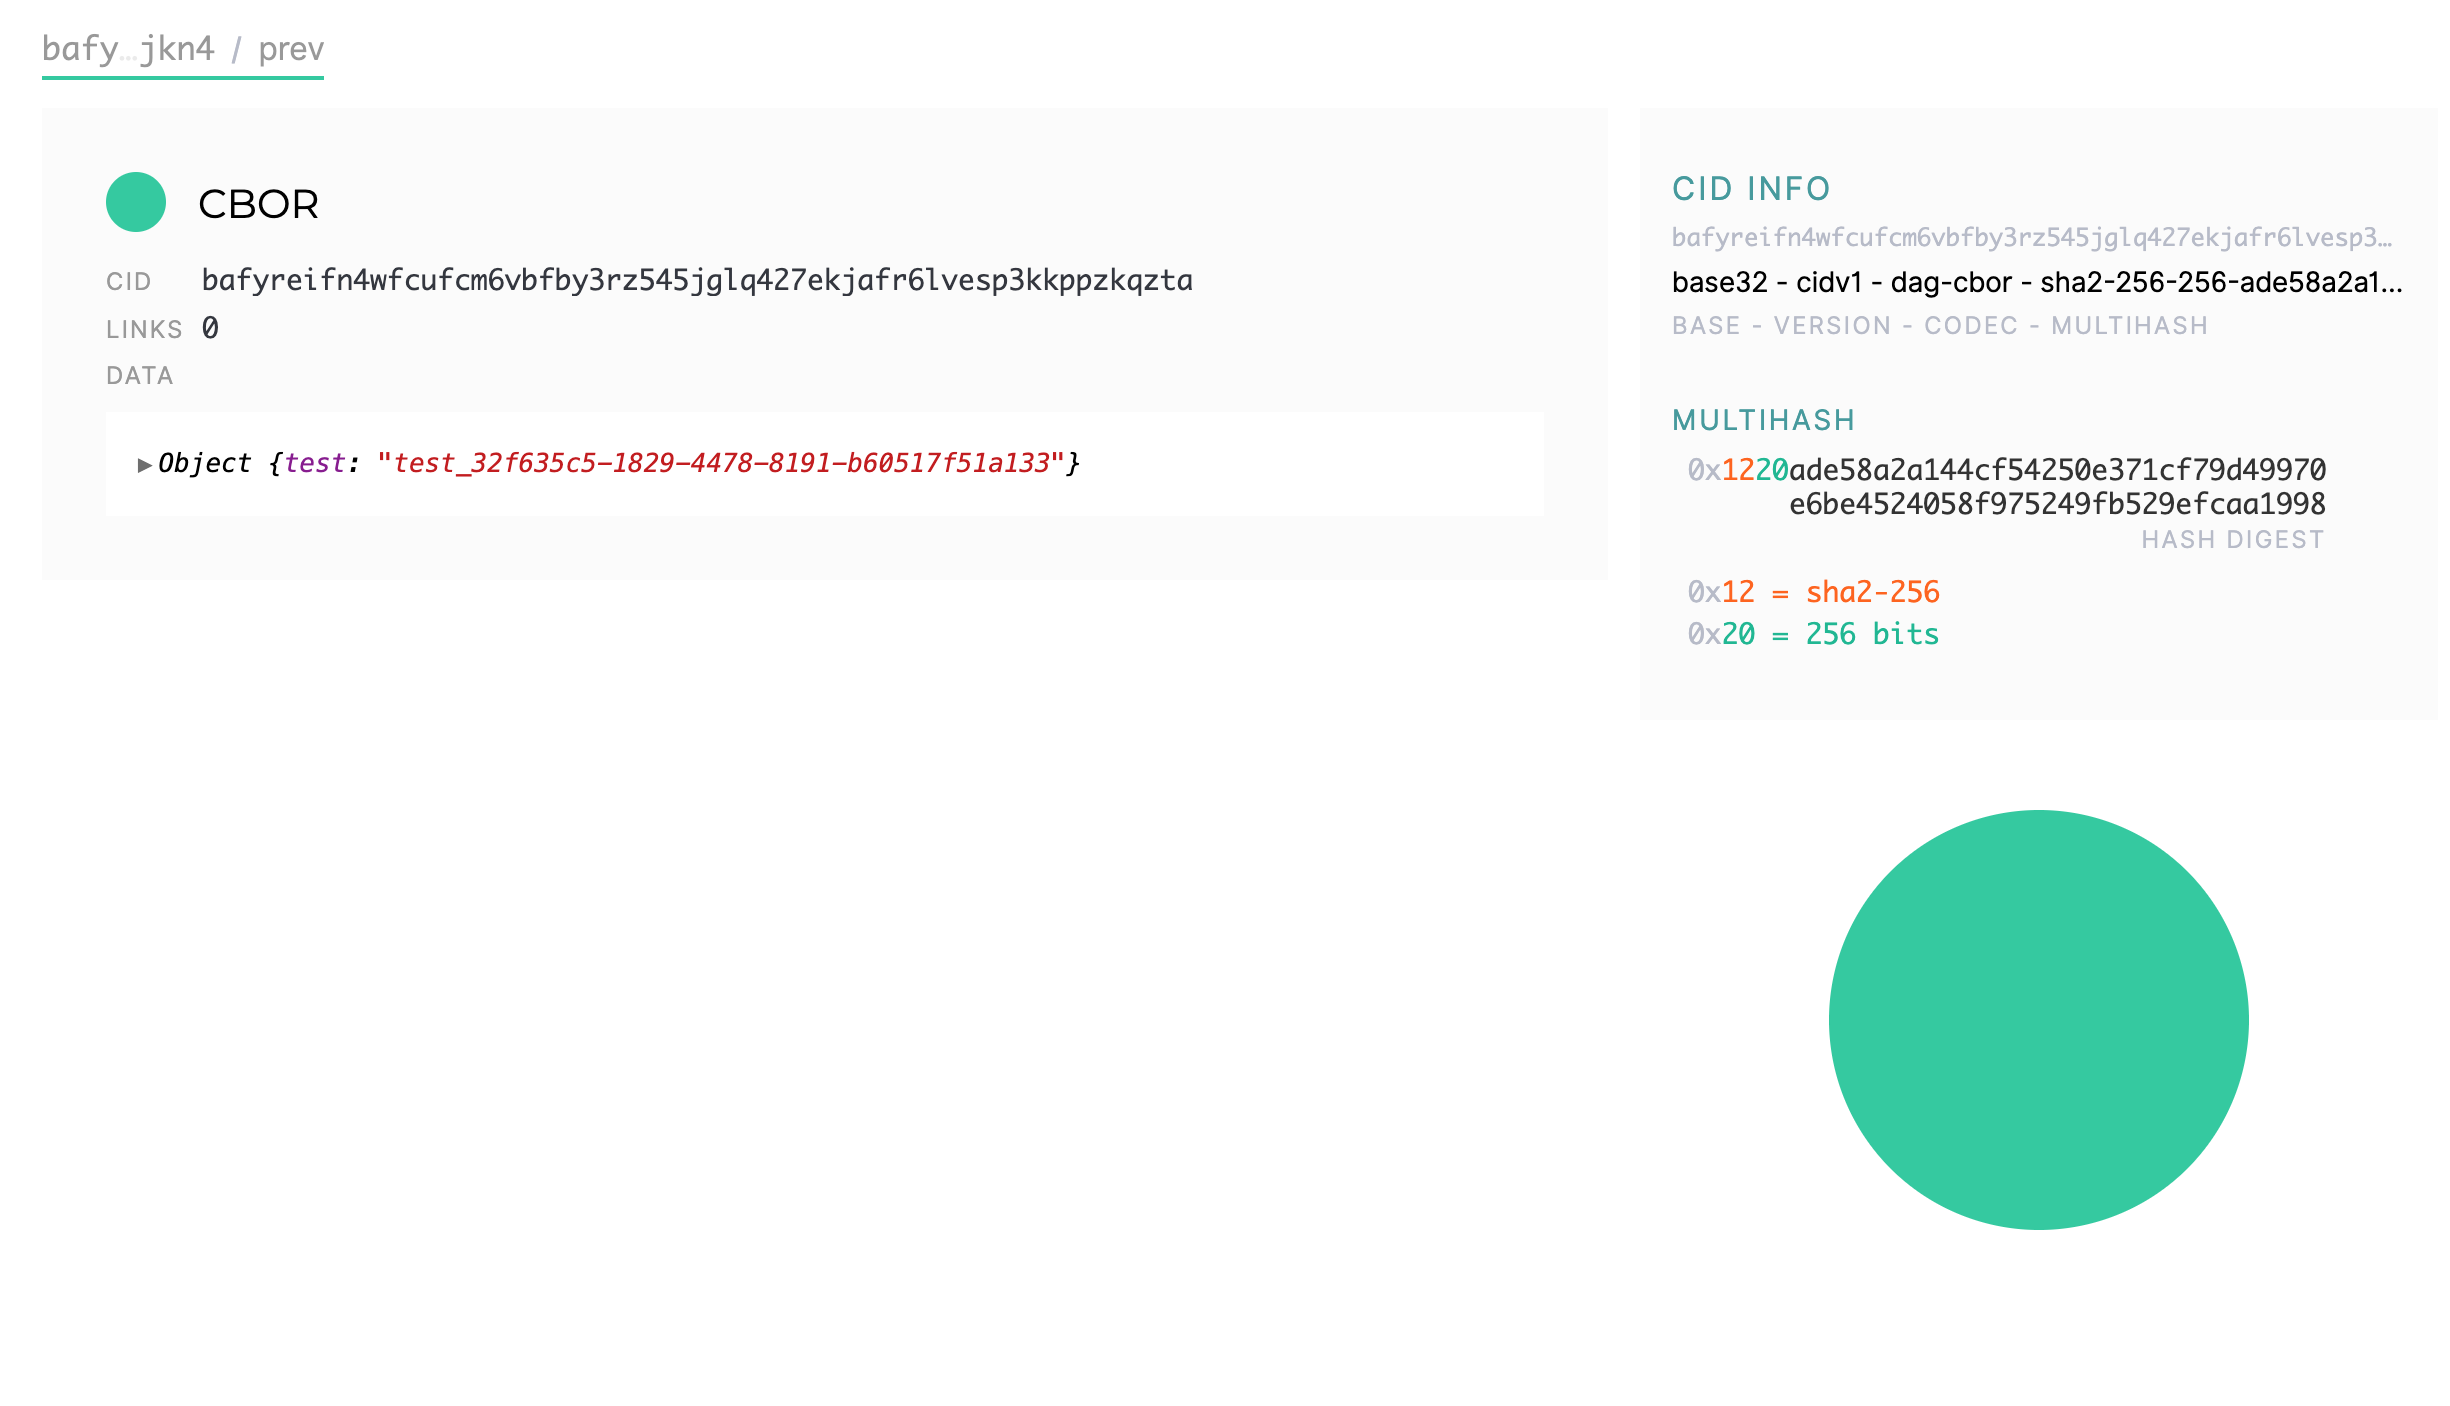
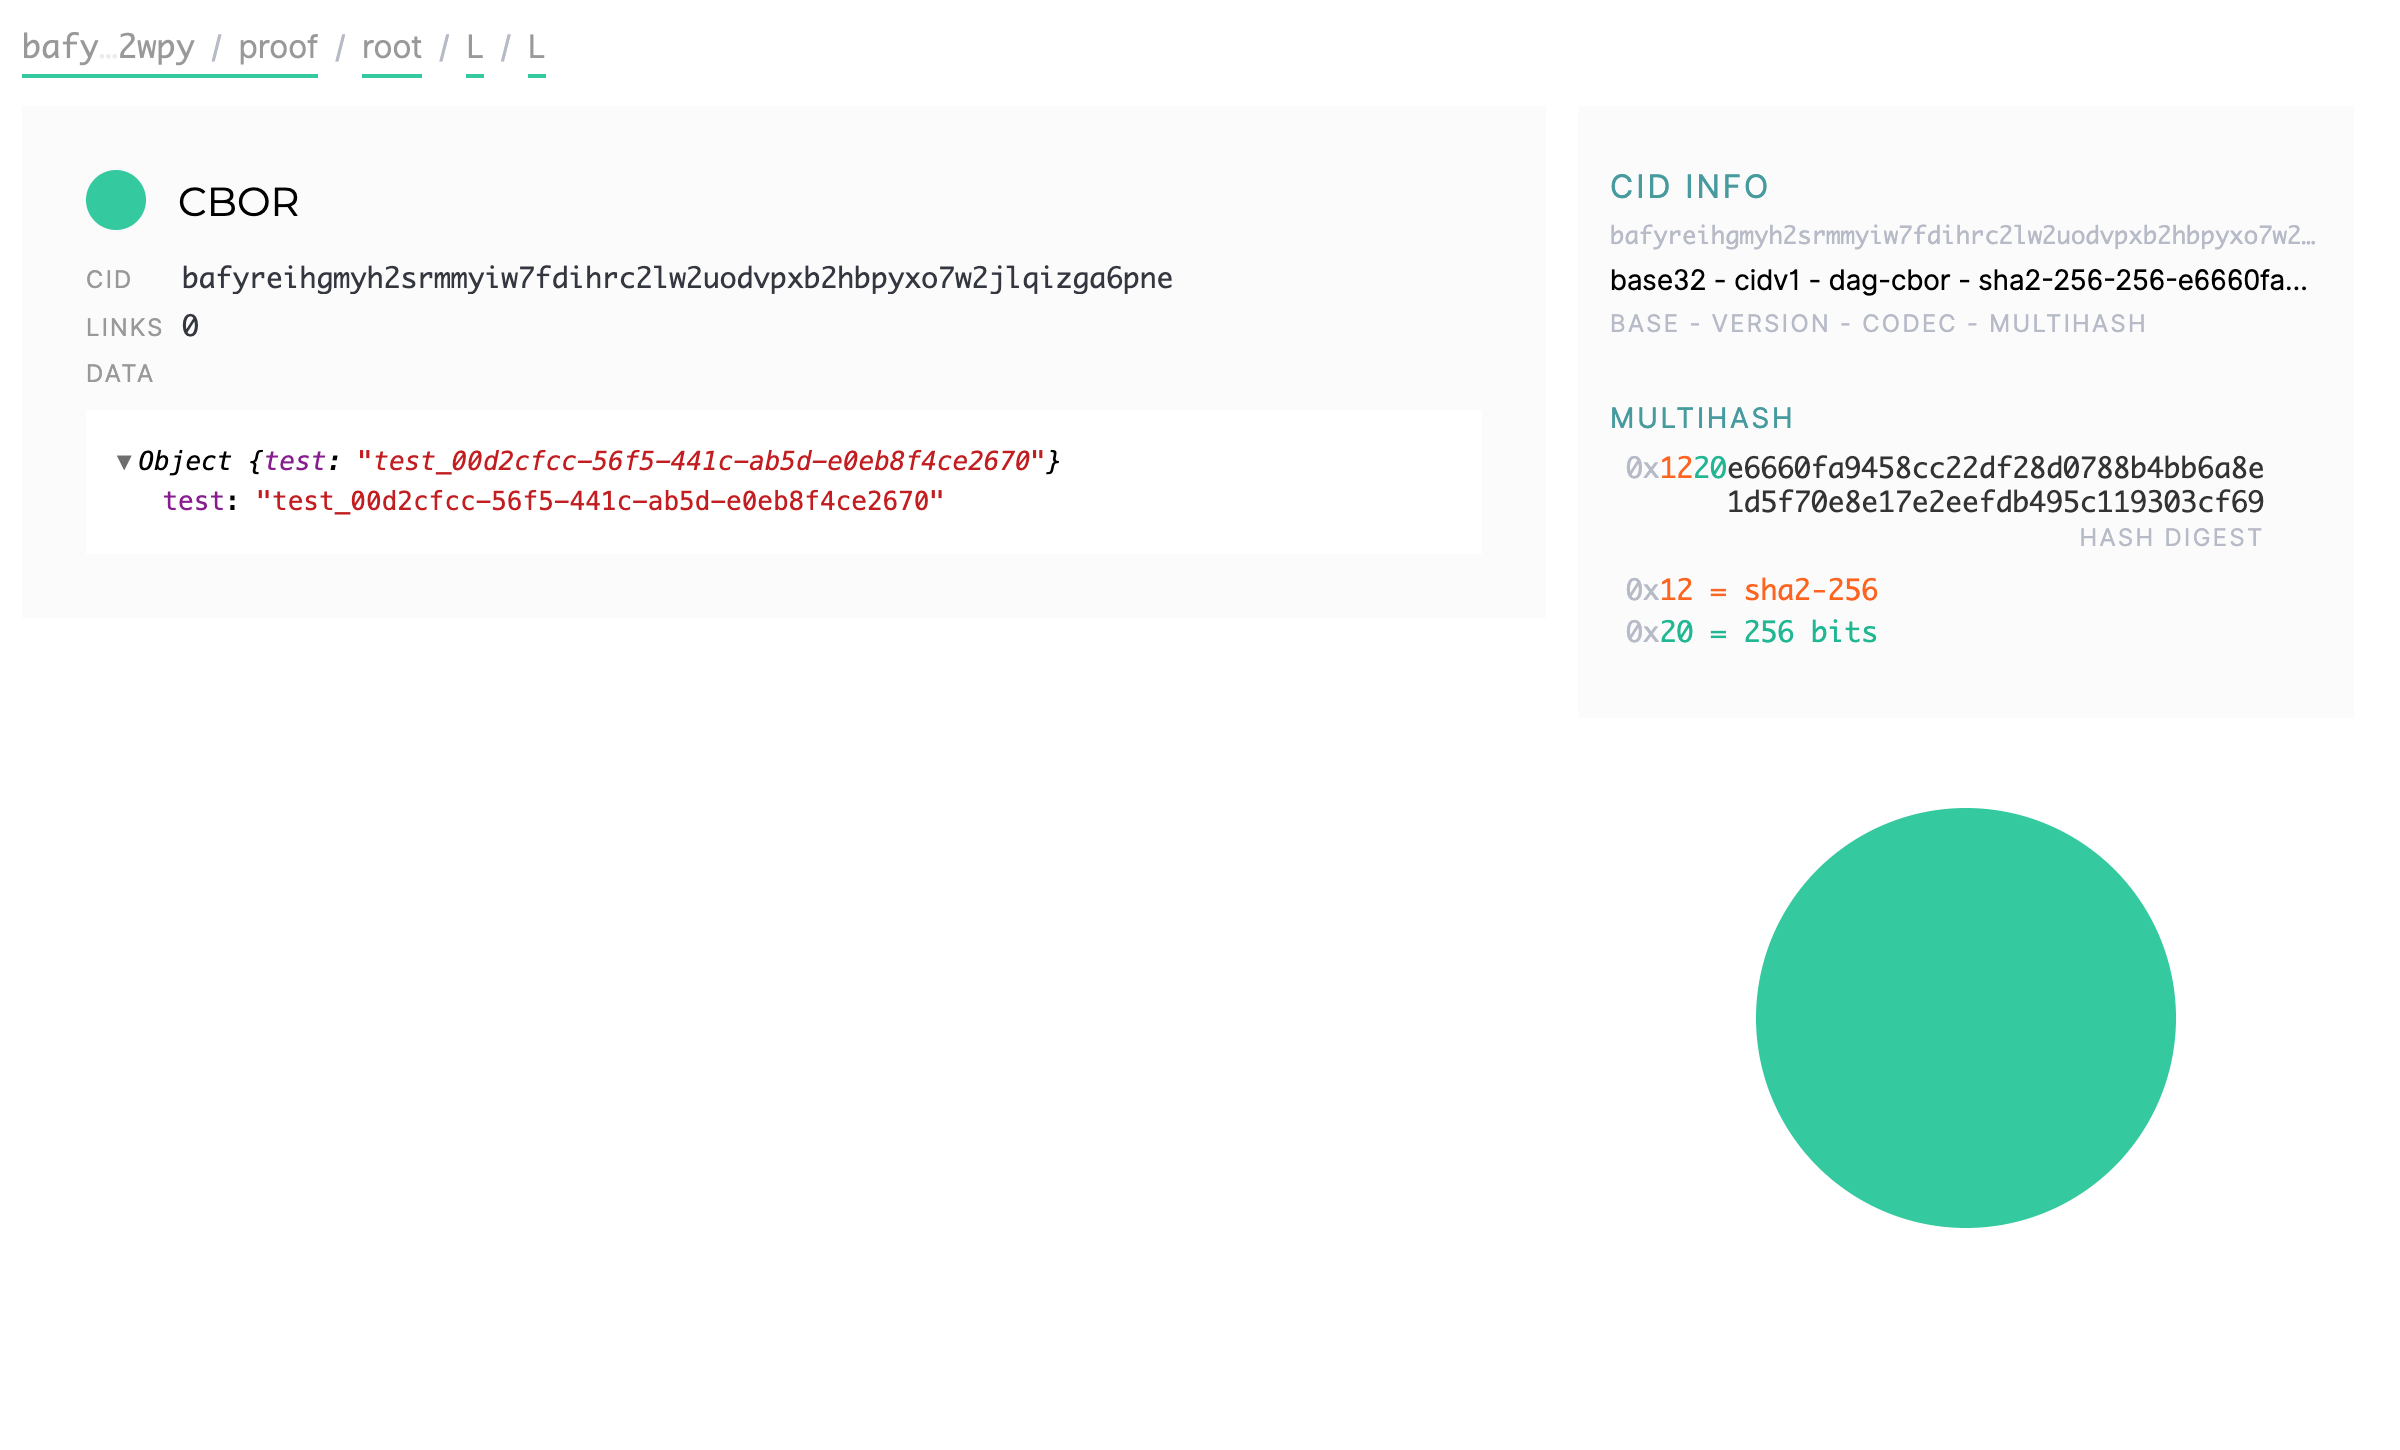
separate to anchor record and anchor proof, change doc

diff --git a/src/services/anchor-service.ts b/src/services/anchor-service.ts
@@ -74,35 +74,34 @@ export default class AnchorService implements Contextual {
 
     const anchorRepository = getManager().getRepository(Anchor);
 
+    const txHashCid = Utils.convertEthHashToCid('eth-tx', tx.txHash.slice(2));
+
+    const ipfsAnchorProof = {
+      blockNumber: tx.blockNumber,
+      blockTimestamp: tx.blockTimestamp,
+      root: merkleTree.getRoot().data.cid,
+      chainId: tx.chain,
+      txHash: txHashCid,
+    };
+    const ipfsProofCid = await this.ipfs.dag.put(ipfsAnchorProof);
+
     for (let index = 0; index < pairs.length; index++) {
       const request: Request = requests[index];
 
       const anchor: Anchor = new Anchor();
       anchor.request = request;
-      anchor.proof = merkleTree.getRoot().data.cid.toString();
-      anchor.blockNumber = tx.blockNumber;
-      anchor.blockTimestamp = tx.blockTimestamp;
-      anchor.chain = tx.chain;
-
-      const txHashCid = Utils.convertEthHashToCid('eth-tx', tx.txHash.slice(2));
-      anchor.txHashCid = txHashCid.toString();
+      anchor.proofCid = ipfsProofCid.toString();
 
       const path = await merkleTree.getDirectPathFromRoot(index);
       anchor.path = path.map((p) => PathDirection[p].toString()).join('/');
 
-      const ipfsAnchor = {
+      const ipfsAnchorRecord = {
         prev: new CID(request.cid),
-        proof: {
-          blockNumber: tx.blockNumber,
-          blockTimestamp: tx.blockTimestamp,
-          root: merkleTree.getRoot().data.cid,
-          chainId: tx.chain,
-          txHash: txHashCid,
-        },
+        proof: ipfsProofCid,
         path: anchor.path,
       };
+      const anchorCid = await this.ipfs.dag.put(ipfsAnchorRecord);
 
-      const anchorCid = await this.ipfs.dag.put(ipfsAnchor);
       anchor.cid = anchorCid.toString();
       await anchorRepository.save(anchor);
 

diff --git a/src/controllers/request-controller.ts b/src/controllers/request-controller.ts
@@ -47,10 +47,16 @@ export default class RequestController implements Contextual {
           docId: request.docId,
           createdAt: request.createdAt,
           updatedAt: request.updatedAt,
-          anchorMetadata: RequestController.convertToAnchorMetadata(anchor),
+          anchorRecord: {
+            cid: anchor.cid,
+            content: {
+              path: anchor.path,
+              prev: anchor.request.cid,
+              proof: anchor.proofCid,
+            }
+          },
         });
       }
-
       return res.status(OK).json(request);
     } catch (err) {
       Logger.Err(err, true);
@@ -58,25 +64,6 @@ export default class RequestController implements Contextual {
         error: err.message,
       });
     }
-  }
-
-  /**
-   * Converts to IPFS anchor metadata structure
-   * @param anchor - Anchor record
-   */
-  private static convertToAnchorMetadata(anchor: Anchor): any {
-    return {
-      cid: anchor.cid,
-      prev: anchor.request.cid,
-      proof: {
-        blockNumber: anchor.blockNumber,
-        blockTimestamp: anchor.blockTimestamp,
-        root: anchor.proof,
-        chainId: anchor.chain,
-        txHash: anchor.txHashCid,
-      },
-      path: anchor.path,
-    };
   }
 
   @Post()
@@ -93,10 +80,10 @@ export default class RequestController implements Contextual {
       }
 
       const created = await this.requestService.create(cid, docId);
-      return res.status(OK).json(created);
+      return res.status(CREATED).json(created);
     } catch (err) {
       Logger.Err(err, true);
-      return res.status(CREATED).json({
+      return res.status(BAD_REQUEST).json({
         error: err.message,
       });
     }

diff --git a/src/models/anchor.ts b/src/models/anchor.ts
@@ -23,22 +23,10 @@ export class Anchor {
   path: string;
 
   @Column({ nullable: false })
-  proof: string;
-
-  @Column({ nullable: false })
-  chain: number;
-
-  @Column({ nullable: false, name: 'block_number' })
-  blockNumber: number;
-
-  @Column({ nullable: false, name: 'block_timestamp' })
-  blockTimestamp: number;
-
-  @Column({ nullable: false, name: 'tx_hash_cid' })
-  txHashCid: string;
-
-  @Column({ nullable: false })
   cid: string;
+
+  @Column({ nullable: false, name: 'proof_cid' })
+  proofCid: string;
 
   @CreateDateColumn({ name: 'created_at' })
   createdAt: Date;

diff --git a/src/services/request-service.ts b/src/services/request-service.ts
@@ -69,7 +69,7 @@ export default class RequestService implements Contextual {
     return await getManager()
       .getRepository(Request)
       .createQueryBuilder('request')
-      .where('request.cid = :cid', { cid })
+      .where('request.cid = :cid', { cid: cid.toString() })
       .getOne();
   }
 

diff --git a/README.md b/README.md
@@ -42,7 +42,7 @@ RESTful APIs are enabled on `http://localhost:3000/api/v0/` by default.
   * **Content:** 
     ```json
       {
-      	"cid": "bafyreicscnpmnk2iu5yukebijgud6yhmq3726dy5leaeknhgblpqrxmmrm",
+      	"cid": "bafyreihgmyh2srmmyiw7fdihrc2lw2uodvpxb2hbpyxo7w2jlqizga6pne",
       	"docId": "documentId" 
       }
     ```
@@ -53,10 +53,10 @@ RESTful APIs are enabled on `http://localhost:3000/api/v0/` by default.
     **Content:** 
      ```json
      {
-         "cid": "bafyreicscnpmnk2iu5yukebijgud6yhmq3726dy5leaeknhgblpqrxmmrm",
+         "id": "b9913267-fe51-4265-b707-9a06ed2b7530",
+         "cid": "bafyreihgmyh2srmmyiw7fdihrc2lw2uodvpxb2hbpyxo7w2jlqizga6pne",
          "docId": "documentId",
          "status": 0,
-         "id": "c4823980-dc66-453d-a6c2-28a1c8a48fc0",
          "createdAt": "2020-04-06T10:01:59.000Z",
          "updatedAt": "2020-04-06T10:01:59.000Z"
      }
@@ -69,7 +69,7 @@ RESTful APIs are enabled on `http://localhost:3000/api/v0/` by default.
 
 * **URL**
 
-  `/requests/:id`
+  `/requests/:cid`
 
 * **Method:**
 
@@ -79,7 +79,7 @@ RESTful APIs are enabled on `http://localhost:3000/api/v0/` by default.
 
    **Required:**
  
-   `id=[string]`
+   `cid=[string]`
 
 * **Data Params**
 
@@ -91,24 +91,20 @@ RESTful APIs are enabled on `http://localhost:3000/api/v0/` by default.
     **Content:** 
     ```json
     {
-      "id": "0d6cdc13-e4cd-439e-888d-1ab77f0befa7",
-      "status": 2,
-      "cid": "bafyreicscnpmnk2iu5yukebijgud6yhmq3726dy5leaeknhgblpqrxmmrm",
-      "docId": "doc_4b296dbf-d213-467f-a43d-481cd2cdb342",
-      "createdAt": "2020-04-07T20:44:01.000Z",
-      "updatedAt": "2020-04-07T20:44:02.000Z",
-      "anchorMetadata": {
-        "cid": "bafyreihbq4yjuta27wgvnluubxtrt3fms34g3oqqxndtwpj4skhvcqsham",
-        "prev": "bafyreicscnpmnk2iu5yukebijgud6yhmq3726dy5leaeknhgblpqrxmmrm",
-        "proof": {
-          "blockNumber": 8,
-          "blockTimestamp": 1586292242,
-          "root": "bafyreihpauoqxjmhnokmmtcuegb7ifamgtvdfoqqs5ihfzh5ek7e7ivyhy",
-          "chainId": 5777,
-          "txHash": "bagjqcgzajrjc7ax4wn3prxczthqwssi5ydn3r6tcpmtflmuacej6h2h7iqba"
-        },
-        "path": "R/R"
-      }
+        "id": "b9913267-fe51-4265-b707-9a06ed2b7530",
+        "status": 2,
+        "cid": "bafyreihgmyh2srmmyiw7fdihrc2lw2uodvpxb2hbpyxo7w2jlqizga6pne",
+        "docId": "doc_875c56f9-9d5d-4031-8d3d-d171a91b15aa",
+        "createdAt": "2020-04-08T12:10:06.000Z",
+        "updatedAt": "2020-04-08T12:10:07.000Z",
+        "anchorRecord": {
+            "cid": "bafyreicq6rwooyi2dk24p52nutgysi4gpu2lvoeilooekqypk4h4f32wpy",
+            "content": {
+                "path": "L/L",
+                "prev": "bafyreihgmyh2srmmyiw7fdihrc2lw2uodvpxb2hbpyxo7w2jlqizga6pne",
+                "proof": "bafyreid3fjhoybtbgzdt2afdrxzikprbmgvufn3z7oavodd37k2tnof5ry"
+            }
+        }
     }
     ```
  
@@ -125,10 +121,16 @@ The image below represents requested CID IPLD document.
     <img src="./resources/ipld-cid.png" width="800" alt="CID IPLD document"/>
 </p>
     
-The image below represents anchor IPLD document.
+The image below represents anchor record IPLD document.
 
 <p align="center">
-    <img src="./resources/ipld-anchor.png" width="800" alt="Anchor IPLD document"/>
+    <img src="./resources/ipld-anchor-record.png" width="800" alt="Anchor IPLD document"/>
+</p>
+
+The image below represents anchor proof IPLD document.
+
+<p align="center">
+    <img src="./resources/ipld-anchor-proof.png" width="800" alt="Anchor IPLD document"/>
 </p>
 
 ## Running the tests
